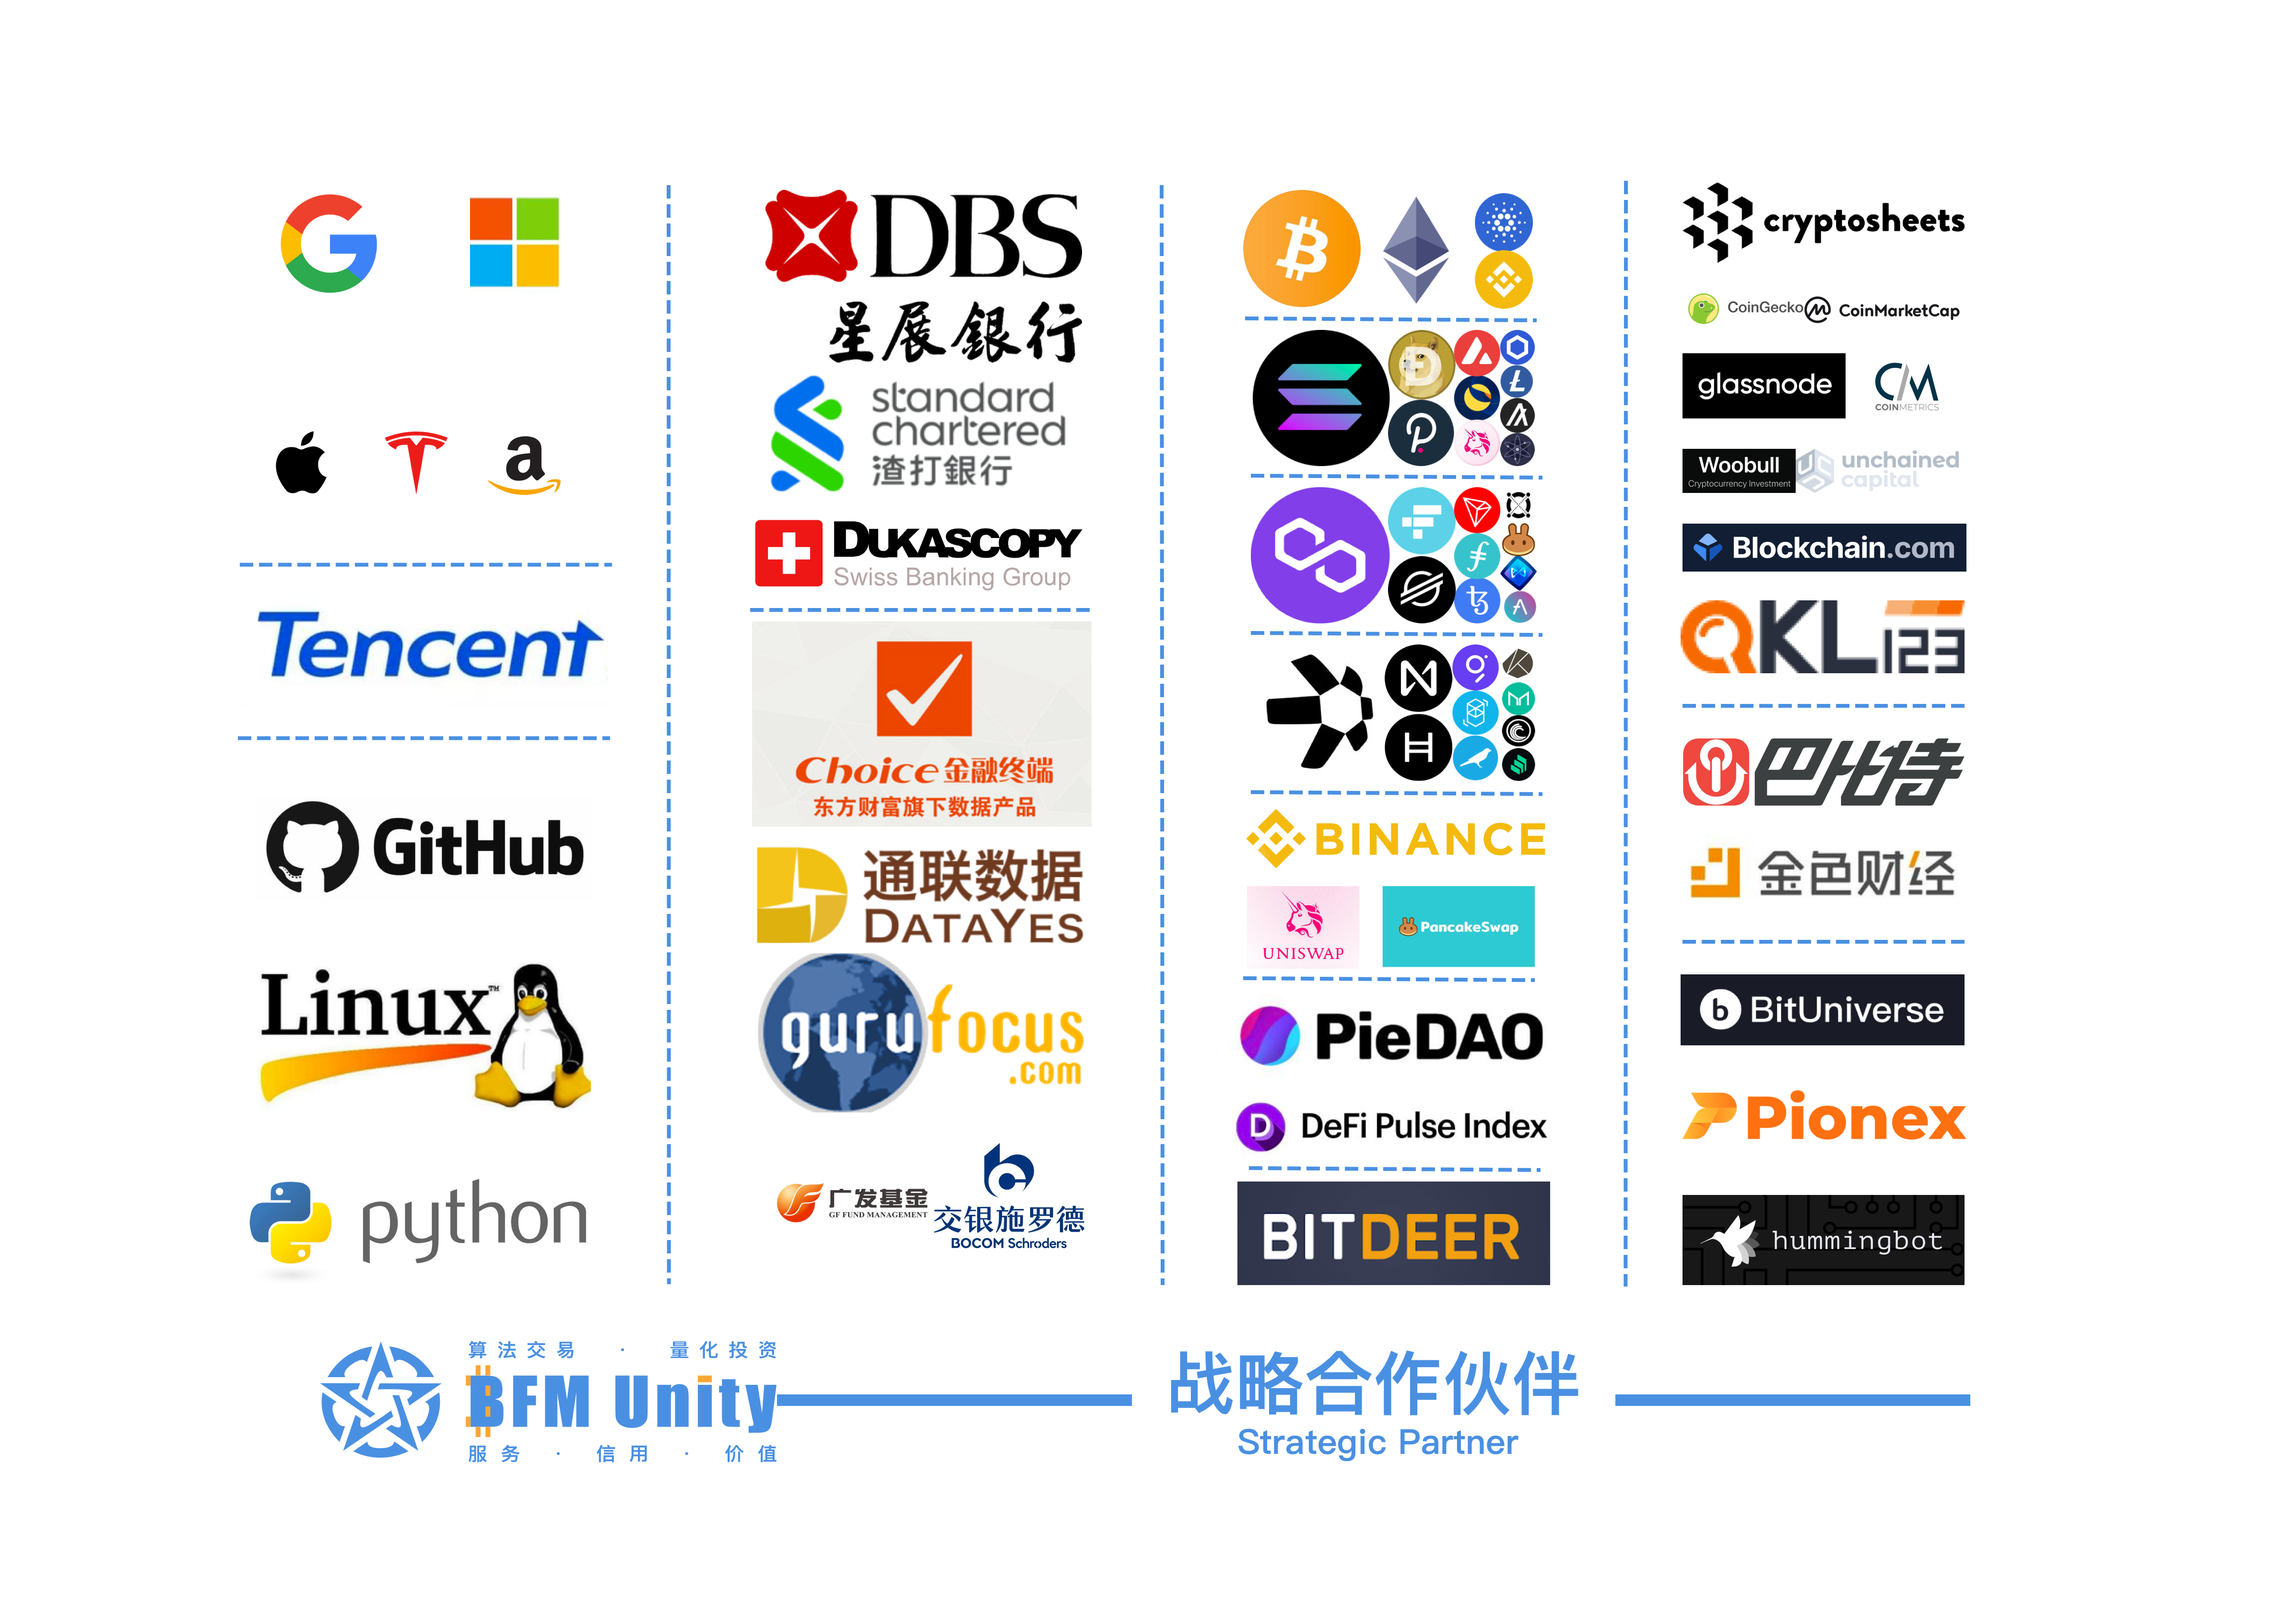
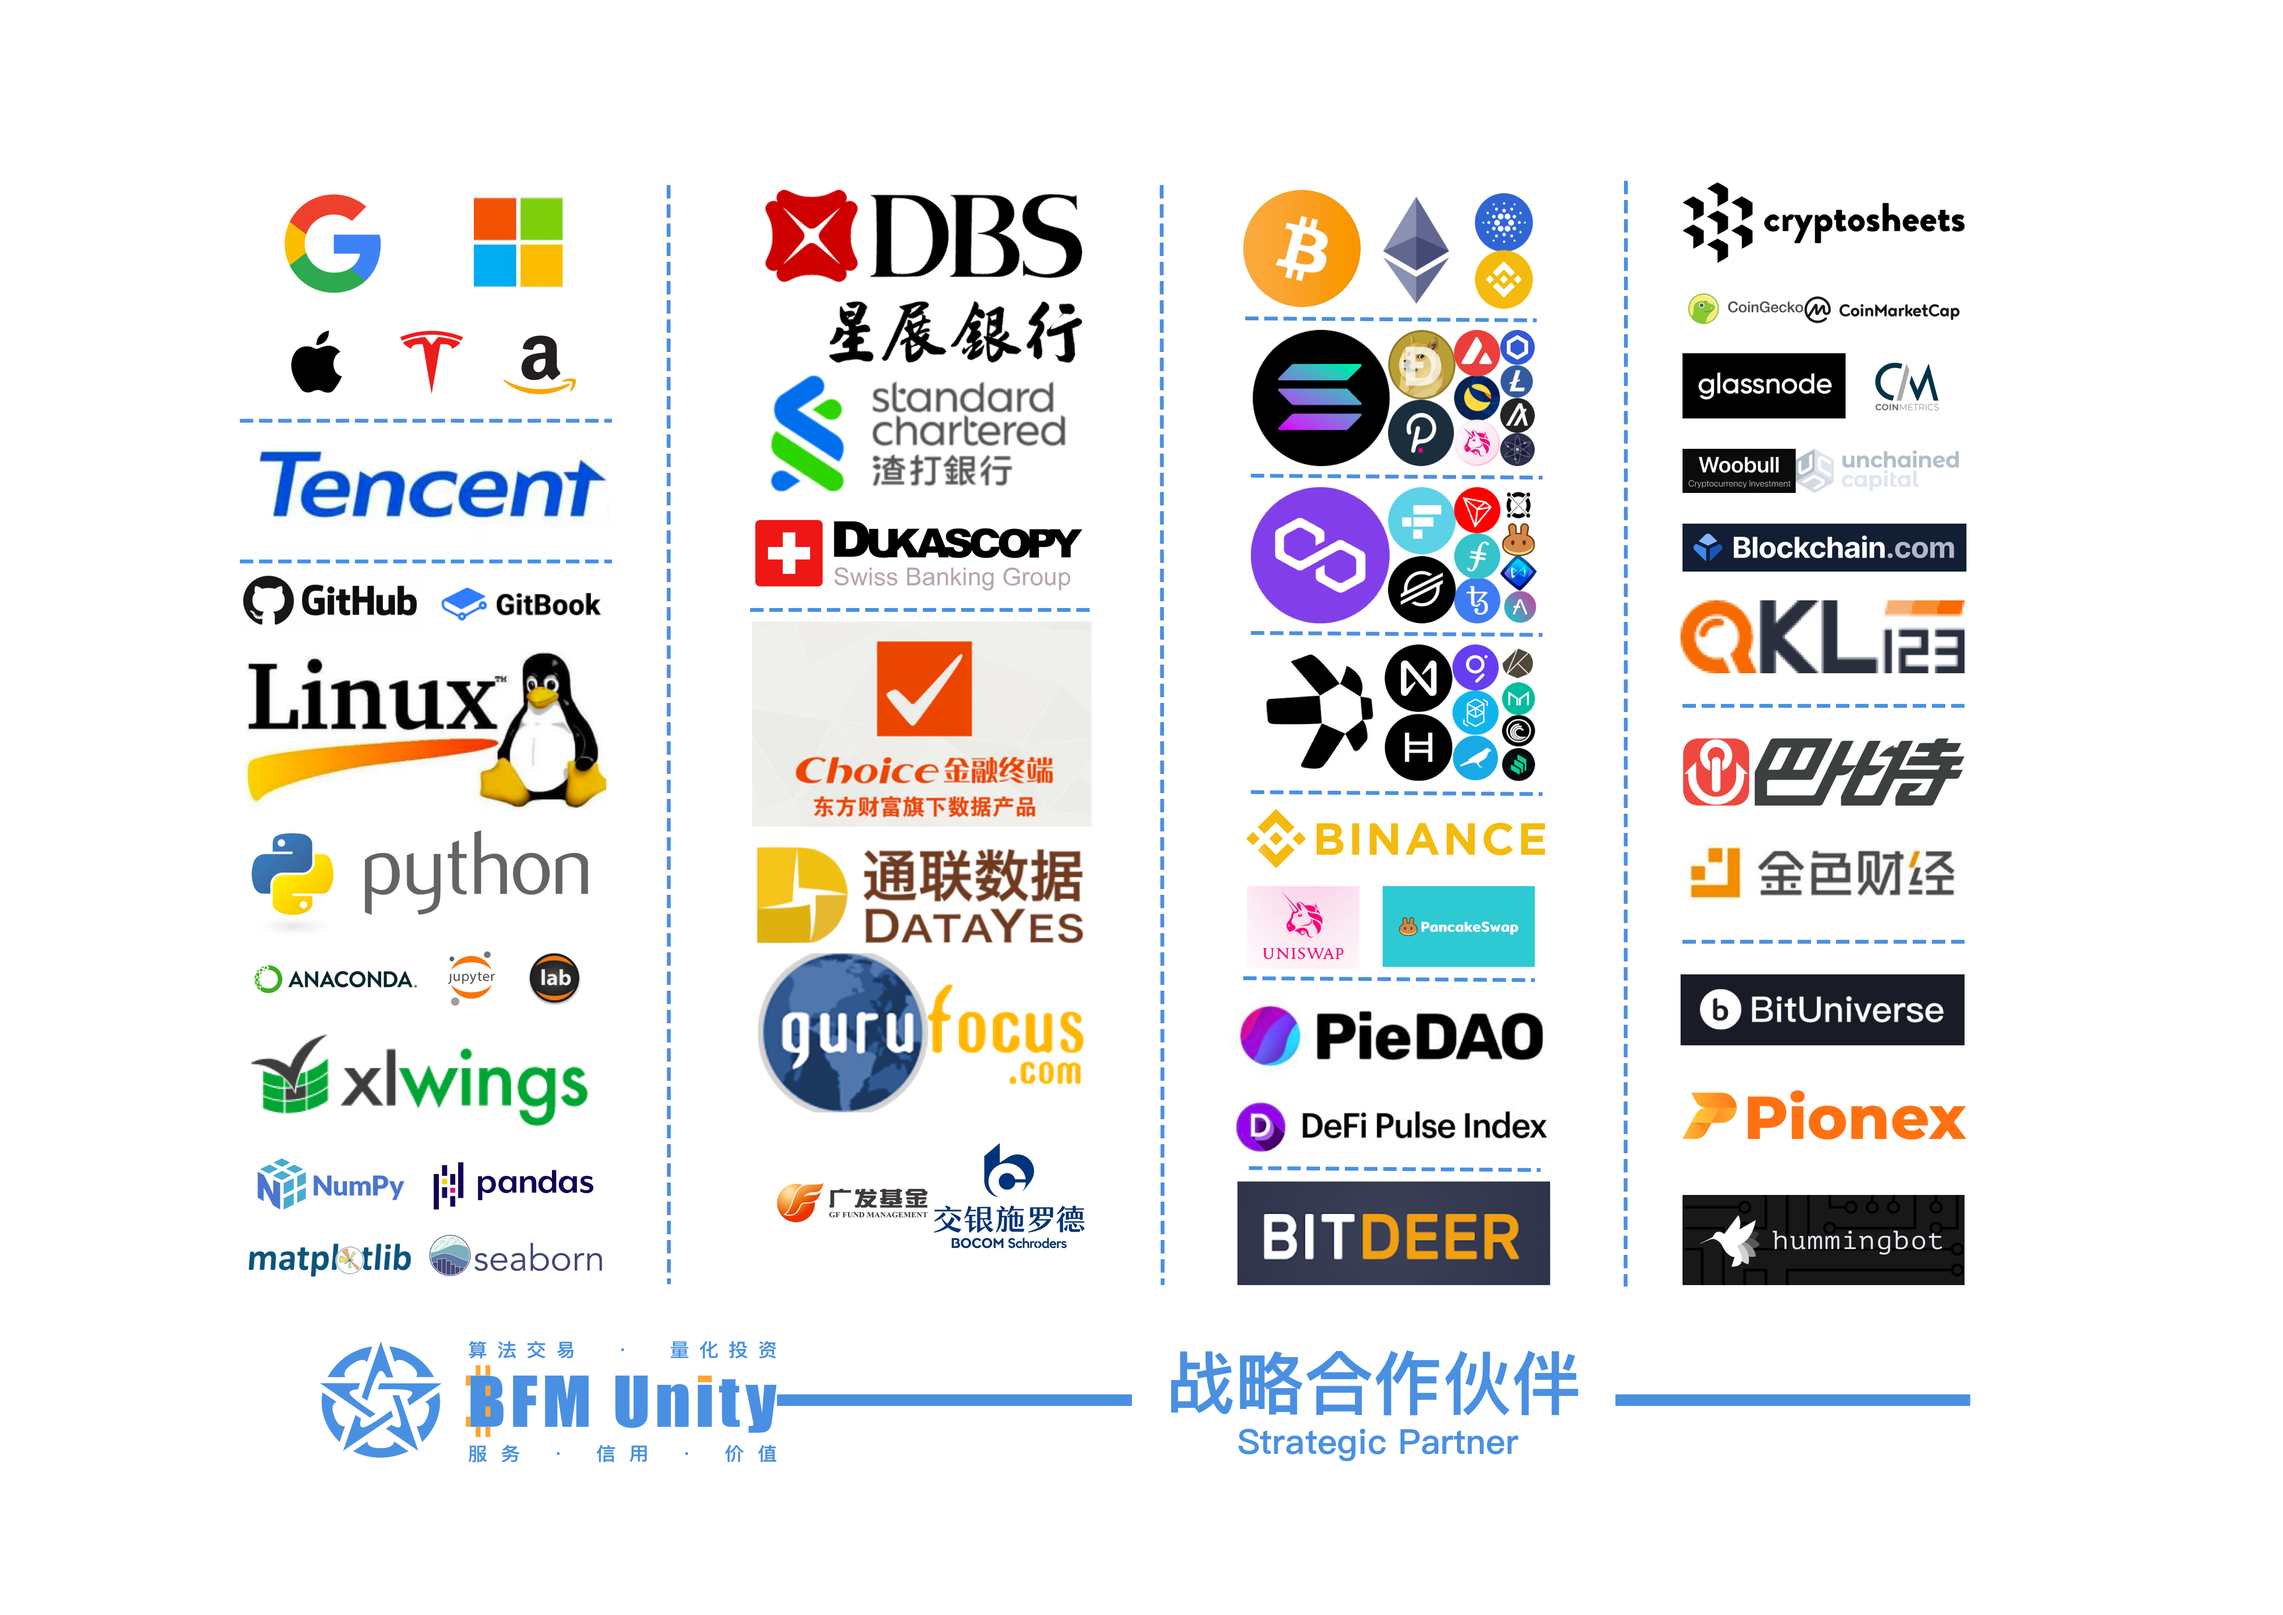
GitBook: [#3579] 你好

Changed region(s): [[0.0933, 0.1247, 0.2798, 0.5612], [0.0933, 0.5923, 0.2798, 0.8106], [0.1244, 0.1247, 0.1555, 0.1871]]

diff --git a/bfm-unity-bi-fang-meng-lian-he-ti/lv0-zhu-jian-qiao-yin-dao.md b/bfm-unity-bi-fang-meng-lian-he-ti/lv0-zhu-jian-qiao-yin-dao.md
@@ -100,7 +100,7 @@ NOTE: **This project is in beta. Use at your own risk.**
 
 ## 我们的经合关系 <a href="#zhan-lve-he-zuo-huo-ban" id="zhan-lve-he-zuo-huo-ban"></a>
 
-![](<../.gitbook/assets/BFM Unity 战略合作伙伴 (4).png>)
+![](<../.gitbook/assets/BFM Unity 战略合作伙伴 (5).png>)
 
 [全球最大的50家银行在区块链领域的布局](https://cloud.tencent.com/developer/article/1356837)
 
